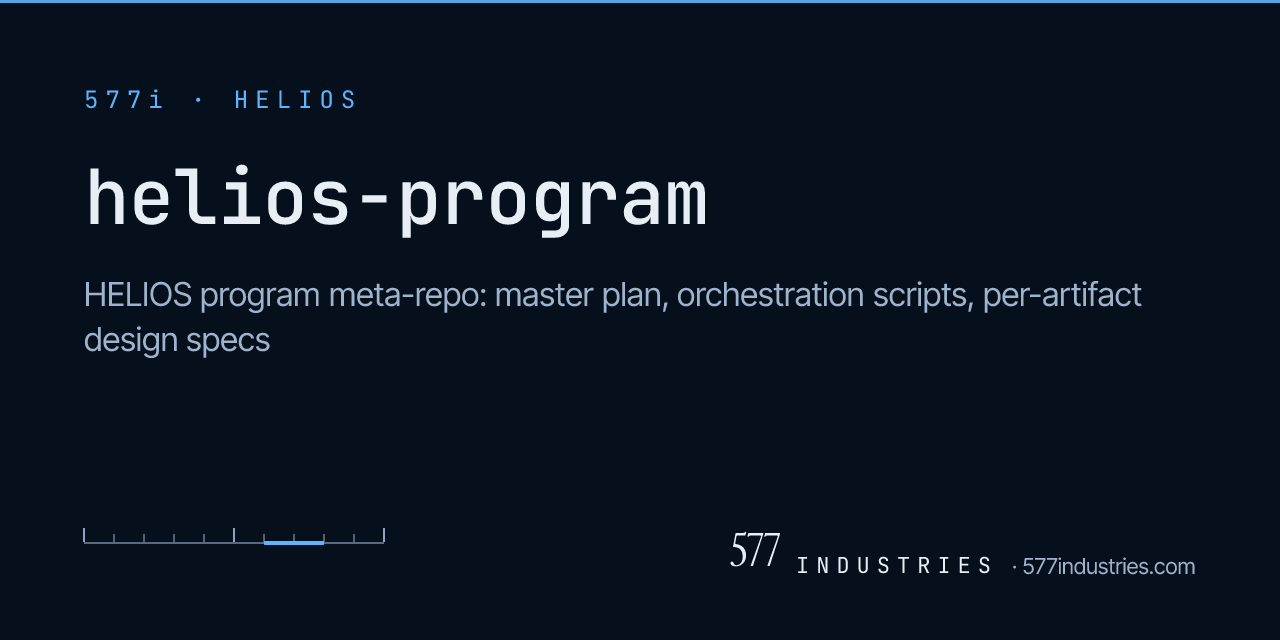
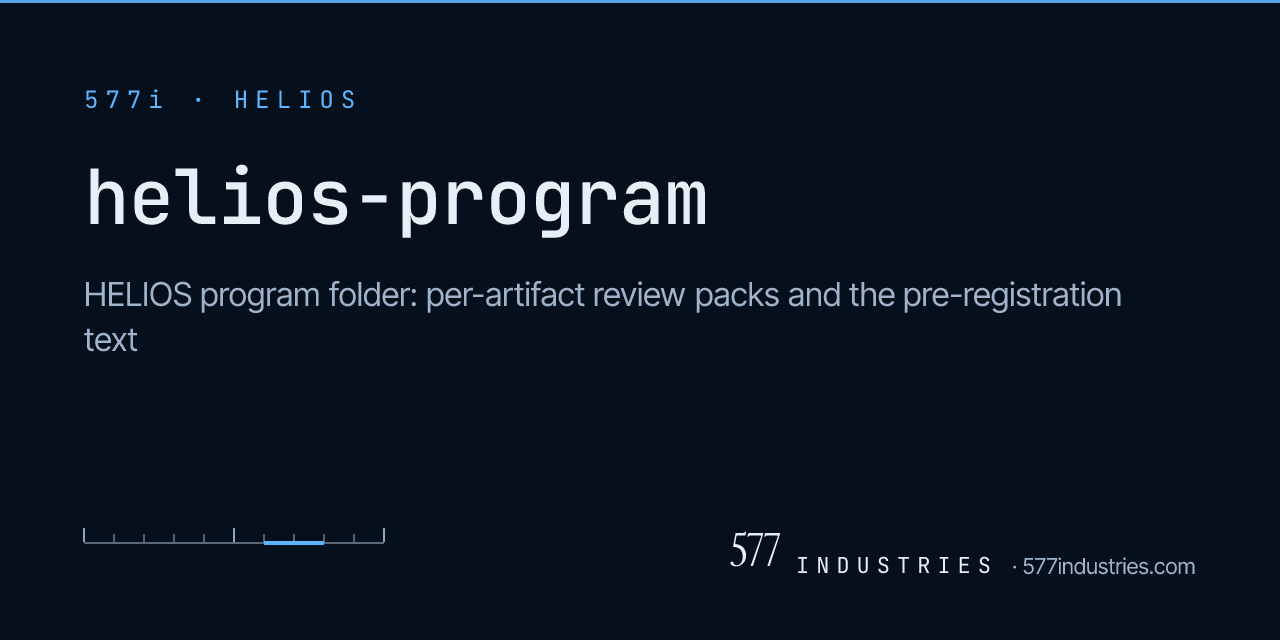
Profile: the HELIOS program folder is described by what it holds
The public repository removed the program's master plan and companion
document from its default branch (577Industries/open-source#6). The
profile's row for the program folder named both, and a line under the
table linked the companion, which no longer resolves.

- The row reads "Program folder · review packs, the pre-registration
  text, copies of the 4 artifacts".
- The "Companion document" line is gone.
- brand/repos.json: the blurb of helios-program follows, and its social
  card is rebuilt from it. No other asset changes: an unchanged build
  reproduces every one byte for byte.

profile/README.md, brand/repos.json and the card are byte-identical to
the public repository's copy under .github-org/.

Changed region(s): [[0.25, 0.4375, 0.9062, 0.5], [0.0625, 0.5, 0.2188, 0.5625]]

diff --git a/profile/README.md b/profile/README.md
@@ -57,13 +57,11 @@ Multi-source space-weather fusion with feature-level provenance and calibrated u
 
 | Repository | Purpose |
 |---|---|
-| [`helios-program`](https://github.com/577Industries/open-source/tree/main/programs/helios/helios-program) | Program folder · master plan, companion document, copies of the 4 artifacts |
+| [`helios-program`](https://github.com/577Industries/open-source/tree/main/programs/helios/helios-program) | Program folder · review packs, the pre-registration text, copies of the 4 artifacts |
 | [`helios-provenance-spec`](https://github.com/577Industries/helios-provenance-spec) | JSON Schema 2020-12 + W3C PROV-JSON RFC for feature-level lineage |
 | [`helios-spaceweather-connectors`](https://github.com/577Industries/open-source/tree/main/programs/helios/helios-spaceweather-connectors) | 6 production adapters · DONKI, SEP A/B/C, SWPC, GOES, DSCOVR, CDDIS GIMs |
 | [`helios-fusion-engine`](https://github.com/577Industries/open-source/tree/main/programs/helios/helios-fusion-engine) | BMA + isotonic + Mondrian conformal calibration · arXiv preprint draft |
 | [`gannon-storm-rtk-analysis`](https://github.com/577Industries/open-source/tree/main/programs/helios/gannon-storm-rtk-analysis) | May 2024 Gannon G5 retrospective on the NGS CORS network |
-
-**Companion document →** [programs/helios/helios-program/companion](https://github.com/577Industries/open-source/blob/main/programs/helios/helios-program/companion/companion.md)
 
 ---
 
